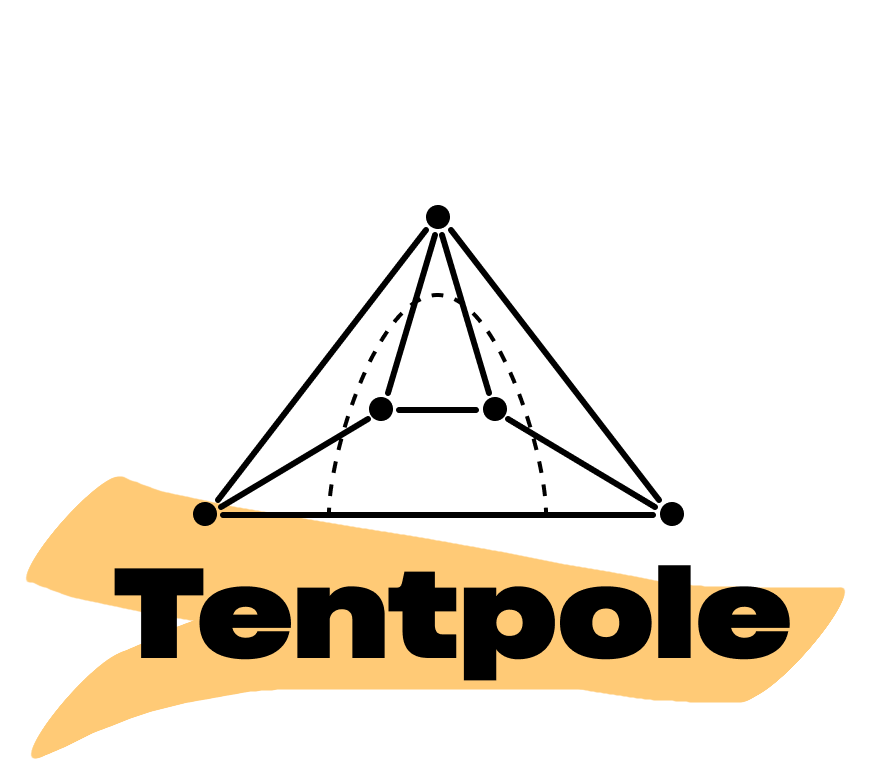
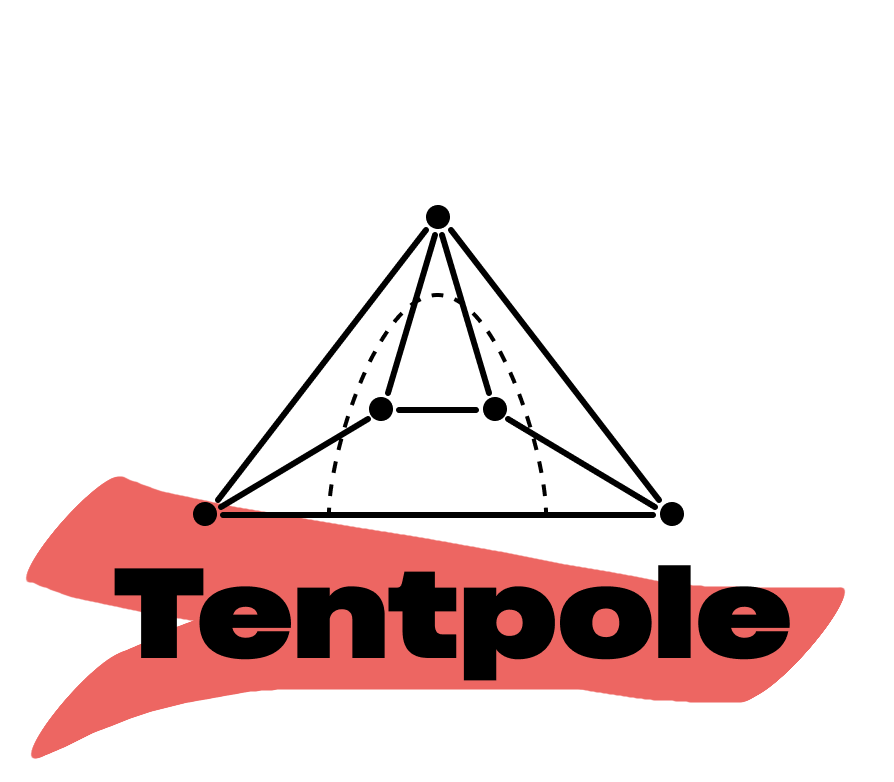
Dark mode!! (#2)
* color swaps. still need image swaps

* some dark images

* rename to fore/background

* dark mode images

* responsive primary colour

Changed region(s): [[0.0302, 0.6138, 0.9664, 0.9821]]

diff --git a/index.html b/index.html
@@ -28,38 +28,68 @@
     <main>
       <img
         id="plain-logo"
+        class="light"
         src="/assets/flourish-0.png"
         width="400"
         height="350"
         alt="A tent drawn with diagrammatic lines and dots. It say 'Tentpole' underneath in a bold, black font."
       />
       <img
-        class="flourish-logo"
+        class="flourish-logo light"
         src="/assets/flourish-1.png"
         width="400"
         height="350"
         alt="A tent drawn with diagrammatic lines and dots. It say 'Tentpole' underneath in a bold, black font. A green paint brush stroke is scribbled on top of it all."
       />
       <img
-        class="flourish-logo"
+        class="flourish-logo light"
         src="/assets/flourish-2.png"
         width="400"
         height="350"
-        alt="A tent drawn with diagrammatic lines and dots. It say 'Tentpole' underneath in a bold, black font. A pale orangey brown brush stroke is painted over the text."
+        alt="A tent drawn with diagrammatic lines and dots. It say 'Tentpole' underneath in a bold, black font. A reddy brown brush stroke is painted over the text."
       />
       <img
-        class="flourish-logo"
+        class="flourish-logo light"
         src="/assets/flourish-3.png"
         width="400"
         height="350"
         alt="A tent drawn with diagrammatic lines and dots. It say 'Tentpole' underneath in a bold, black font. A pink paint brush stroke is marked over the roof of the tent."
       />
       <img
-        class="flourish-logo"
+        class="flourish-logo light"
         src="/assets/flourish-4.png"
         width="400"
         height="350"
         alt="A tent drawn with diagrammatic lines and dots. It say 'Tentpole' underneath in a bold, black font. A blue paint brush stroke is scribbled on top of it all."
+      />
+      <img
+        id="plain-logo"
+        class="dark"
+        src="/assets/flourish-dark-0.png"
+        width="400"
+        height="350"
+        alt="A tent drawn with diagrammatic lines and dots. It say 'Tentpole' underneath in a bold, white font."
+      />
+      <img
+        class="flourish-logo dark"
+        src="/assets/flourish-dark-1.png"
+        width="400"
+        height="350"
+        alt="A tent drawn with diagrammatic lines and dots. It say 'Tentpole' underneath in a bold, white font. A green paint brush stroke is scribbled on top of it all."
+      />
+      <img
+        class="flourish-logo dark"
+        src="/assets/flourish-dark-2.png"
+        width="400"
+        height="350"
+        alt="A tent drawn with diagrammatic lines and dots. It say 'Tentpole' underneath in a bold, white font. A reddy brown brush stroke is painted over the text."
+      />
+      <img
+        class="flourish-logo dark"
+        src="/assets/flourish-dark-3.png"
+        width="400"
+        height="350"
+        alt="A tent drawn with diagrammatic lines and dots. It say 'Tentpole' underneath in a bold, white font. A pink paint brush stroke is marked over the roof of the tent."
       />
       <section>
         <p>
@@ -118,21 +148,67 @@
       return shuffledArray;
     }
 
-    const flourishLogos = document.querySelectorAll(".flourish-logo");
-    const plainLogo = document.getElementById("plain-logo");
-
-    const selectedFlourishIndex = Math.floor(
-      Math.random() * flourishLogos.length
+    const flourishLogosLight = document.querySelectorAll(
+      ".flourish-logo.light"
     );
 
-    const selectedFlourishLogo = flourishLogos[selectedFlourishIndex];
+    const flourishLogosDark = document.querySelectorAll(".flourish-logo.dark");
+    const plainLogoLight = document.querySelector("#plain-logo.light");
+    const plainLogoDark = document.querySelector("#plain-logo.dark");
 
-    plainLogo.style.display = "none";
-    selectedFlourishLogo.style.display = "inline";
+    const selectedFlourishIndexLight = Math.floor(
+      Math.random() * flourishLogosLight.length
+    );
+    const selectedFlourishIndexDark = Math.floor(
+      Math.random() * flourishLogosDark.length
+    );
 
-    const colourMap = ["green", "orange", "pink", "blue"];
-    const primaryColour = colourMap[selectedFlourishIndex];
+    const selectedFlourishLogoLight =
+      flourishLogosLight[selectedFlourishIndexLight];
+    const selectedFlourishLogoDark =
+      flourishLogosDark[selectedFlourishIndexDark];
 
-    document.body.style.setProperty("--primary", `var(--${primaryColour})`);
+    plainLogoLight.style.display = "none";
+    plainLogoDark.style.display = "none";
+    selectedFlourishLogoLight.classList.add("selected");
+    selectedFlourishLogoDark.classList.add("selected");
+
+    const colourMapLight = ["green", "red", "pink", "blue"];
+    const primaryColourLight = colourMapLight[selectedFlourishIndexLight];
+    const colourMapDark = ["green", "red", "pink"];
+    const primaryColourDark = colourMapDark[selectedFlourishIndexDark];
+
+    document.body.style.setProperty(
+      "--primary-light",
+      `var(--${primaryColourLight})`
+    );
+    document.body.style.setProperty(
+      "--primary-dark",
+      `var(--${primaryColourDark})`
+    );
+
+    const isDarkMode = window.matchMedia(
+      "(prefers-color-scheme: dark)"
+    ).matches;
+    document.body.style.setProperty(
+      "--primary",
+      // todo: shouldnt do this because when the user changes scheme, it wont update
+      isDarkMode
+        ? `var(--${primaryColourDark})`
+        : `var(--${primaryColourLight})`
+    );
+
+    // todo: should do this in CSS land instead
+    // will fix up when colour theme is slightly more stable
+    window
+      .matchMedia("(prefers-color-scheme: dark)")
+      .addEventListener("change", (e) => {
+        document.body.style.setProperty(
+          "--primary",
+          e.matches
+            ? `var(--${primaryColourDark})`
+            : `var(--${primaryColourLight})`
+        );
+      });
   </script>
 </html>

diff --git a/style.css b/style.css
@@ -2,12 +2,55 @@
   --blue: #4cc6ff;
   --pink: #ff5adb;
   --orange: #ffca76;
+  --red: #ed6662;
   --base-green: #5eff9c;
   --green: #55ee90;
+
+  --green-dark: #35d673;
+  --pink-dark: #f24da2;
+  --red-dark: var(--red);
+
+  --primary-light: var(--green);
+  --primary-dark: var(--green-dark);
+  --primary: var(--primary-light);
+
+  --foreground: black;
+  --background: white;
 }
 
-body {
-  --primary: var(--blue);
+.dark {
+  display: none;
+}
+
+.selected.light {
+  display: inline-block;
+}
+
+/* dark mode */
+@media (prefers-color-scheme: dark) {
+  :root {
+    --foreground: white;
+    --background: black;
+    --green: var(--green-dark);
+    --pink: var(--pink-dark);
+    --primary: var(--primary-dark);
+  }
+
+  .selected.light {
+    display: none;
+  }
+
+  .selected.dark {
+    display: inline-block;
+  }
+
+  .light {
+    display: none;
+  }
+
+  .dark {
+    display: inline-block;
+  }
 }
 
 * {
@@ -16,6 +59,7 @@ body {
 
 html {
   height: 100%;
+  background-color: var(--background);
 }
 
 body {
@@ -46,7 +90,7 @@ section p {
 }
 
 a {
-  color: #000;
+  color: var(--foreground);
   text-decoration: none;
   white-space: nowrap;
 }
@@ -75,10 +119,11 @@ img {
 input[type="email"] {
   font-size: 14px;
   height: 28px;
-  border: 1.5px solid #000;
+  border: 1.5px solid var(--foreground);
   border-radius: 4px 0px 0px 4px;
   padding: 0px 4px;
   width: 100%;
+  background-color: var(--background);
 }
 
 *:focus {
@@ -92,13 +137,13 @@ a:focus {
 }
 
 input[type="email"]::placeholder {
-  color: #000;
+  color: var(--foreground);
   font-weight: light;
 }
 
 input[type="submit"] {
-  background-color: #000;
-  color: #fff;
+  background-color: var(--foreground);
+  color: var(--background);
   border: none;
   padding: 0px 12px;
   height: 28px;
@@ -108,7 +153,7 @@ input[type="submit"] {
   width: fit-content;
 }
 
-input[type="submit"]:hover {
+input[type="submit"]:submit {
   background-color: var(--primary);
   color: black;
 }
